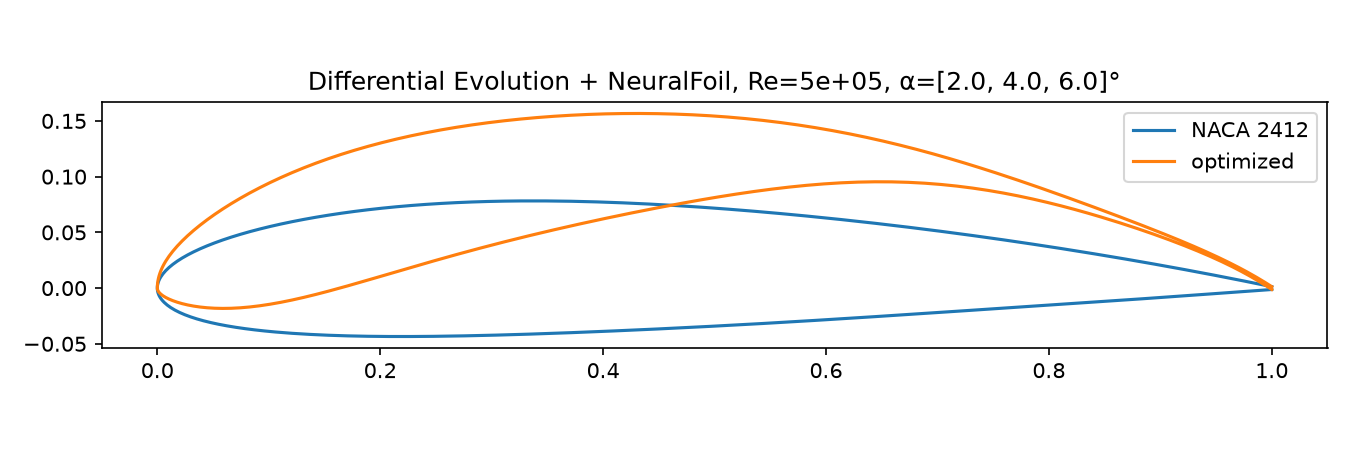
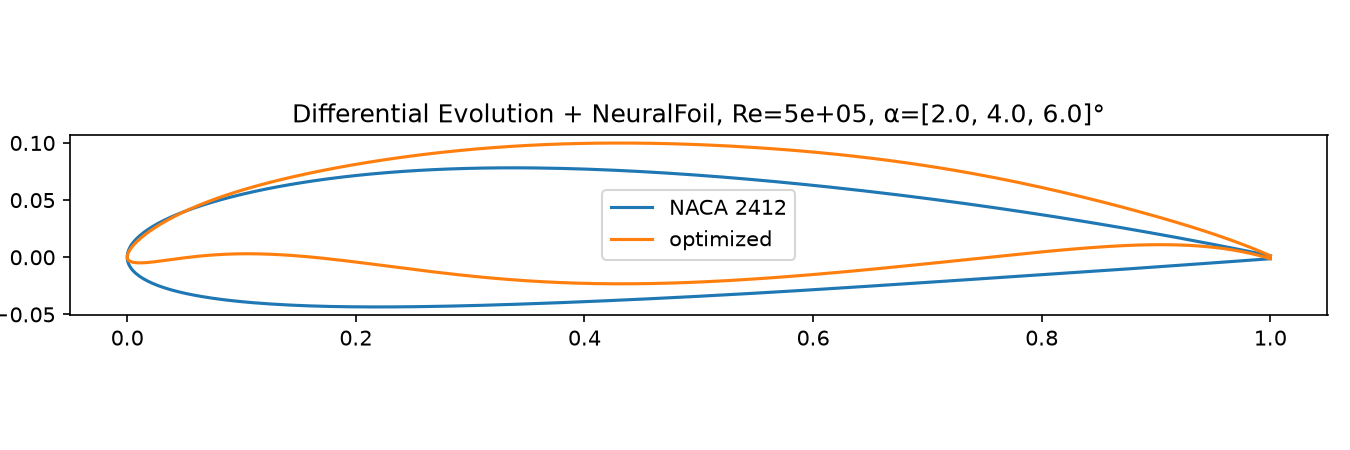
Updated readme

diff --git a/README.md b/README.md
@@ -1,24 +1,53 @@
 # foil-opt
 
-Airfoil shape optimization with CMA-ES and the [NeuralFoil](https://github.com/peterdsharpe/NeuralFoil) surrogate model.
+Airfoil shape optimization with CMA-ES or Differential Evolution and the [NeuralFoil](https://github.com/peterdsharpe/NeuralFoil) surrogate model.
 
-![Optimized airfoil vs NACA 2412](optimized_airfoil.png)
+| CMA-ES | Differential Evolution |
+|--------|------------------------|
+| ![CMA-ES optimized airfoil vs NACA 2412](optimized_airfoil.png) | ![DE optimized airfoil vs NACA 2412](optimized_airfoil_de.png) |
 
 ## How it works
 
 - **Shape:** 8 upper and 8 lower Kulfan (CST) weights, plus a leading-edge weight (17 parameters), starting from a NACA 2412
 - **Objective:** maximize mean L/D at α = 2°, 4°, 6° and Re = 5·10⁵
-- **Constraints (penalties):** max thickness ≥ 12%, surfaces must not cross, NeuralFoil confidence ≥ 0.9
-- **Optimizer:** CMA-ES (`cma`) or Differential Evolution (`scipy`), with each generation scored in one batched NeuralFoil call
+- **Constraints (penalties added to −mean L/D):**
 
-## Result
+  | Constraint | Limit | Weight |
+  |------------|-------|--------|
+  | Max thickness | ≥ 12% | 1e3 |
+  | Surfaces must not cross | thickness ≥ 0 everywhere | 1e3 |
+  | Max camber | ≤ 4% | 1e4 |
+  | NeuralFoil confidence | ≥ 0.9 at each α | 1e2 |
 
-|           | Mean L/D | CL at 4° | CM    |
-|-----------|----------|----------|-------|
-| NACA 2412 | 79       | 0.70     | −0.05 |
-| Optimized | 156      | 1.68     | −0.29 |
+  Thickness and camber are checked at 50 chord stations. The camber weight is high because extra camber buys a lot of L/D; with a weaker weight the optimizer would accept the penalty and keep the camber.
+- **Optimizers:** each generation is scored in one batched NeuralFoil call
+  - **CMA-ES** (`cma`): starts at the NACA 2412 with step size σ = 0.03, population 24
+  - **Differential Evolution** (`scipy`): searches a box of ±1.0 around the NACA 2412 genome, population 34 (2 × 17 parameters), baseline seeded into the first generation, no gradient polishing
 
-> The optimum has very high camber and a large nose-down pitching moment, so it isn't practical yet. Next steps are a CM constraint and checking the result with XFoil.
+All settings are in [`src/foil_opt/config.py`](src/foil_opt/config.py).
+
+## Results
+
+|                    | Mean L/D | Max camber | CL at 4° | CM at 4° | Min confidence |
+|--------------------|----------|------------|----------|----------|----------------|
+| NACA 2412          | 79       | 1.9%       | 0.70     | −0.05    | 0.97           |
+| CMA-ES             | **131**  | 4.0%       | 1.17     | −0.17    | 0.90           |
+| Differential Evol. | 128      | 3.9%       | 1.18     | −0.17    | 0.92           |
+
+### CMA-ES vs Differential Evolution
+
+|                        | CMA-ES   | Differential Evolution |
+|------------------------|----------|------------------------|
+| Generations to stop    | ~1,900 (of 2,000 max) | ~230 (converged) |
+| Candidates evaluated   | ~46,000  | ~8,000                 |
+| Wall time              | ~28 s    | ~6 s                   |
+| Best mean L/D          | 131.1    | 128.0                  |
+
+- Both reach almost the same shape: more camber, thickness at the 12% limit and camber at the 4% limit, so both constraints are active.
+- CMA-ES finds a slightly better optimum (+3 L/D), but needs about 6× the evaluations, mostly spent on small refinements after it is close.
+- DE gets to within a few percent much faster and stops on its own convergence tolerance. It needs search bounds, while CMA-ES only needs a starting point and step size.
+
+> Without the camber limit, the optimum reached L/D ≈ 156 but had over 4% camber and CM ≈ −0.30. Limiting camber to 4% costs about 25 L/D and roughly halves the pitching moment, but CM is still about 3× the NACA 2412's. Next steps are a CM constraint and checking the result with XFoil.
 
 ## Usage
 
@@ -28,4 +57,4 @@ uv run python src/cma_example.py                    # CMA-ES
 uv run python src/cma_example.py --optimizer de     # Differential Evolution
 ```
 
-The run takes a few seconds and writes `optimized_airfoil.png` (CMA-ES) or `optimized_airfoil_de.png` (DE).
+Writes `optimized_airfoil.png` (CMA-ES) or `optimized_airfoil_de.png` (DE).
